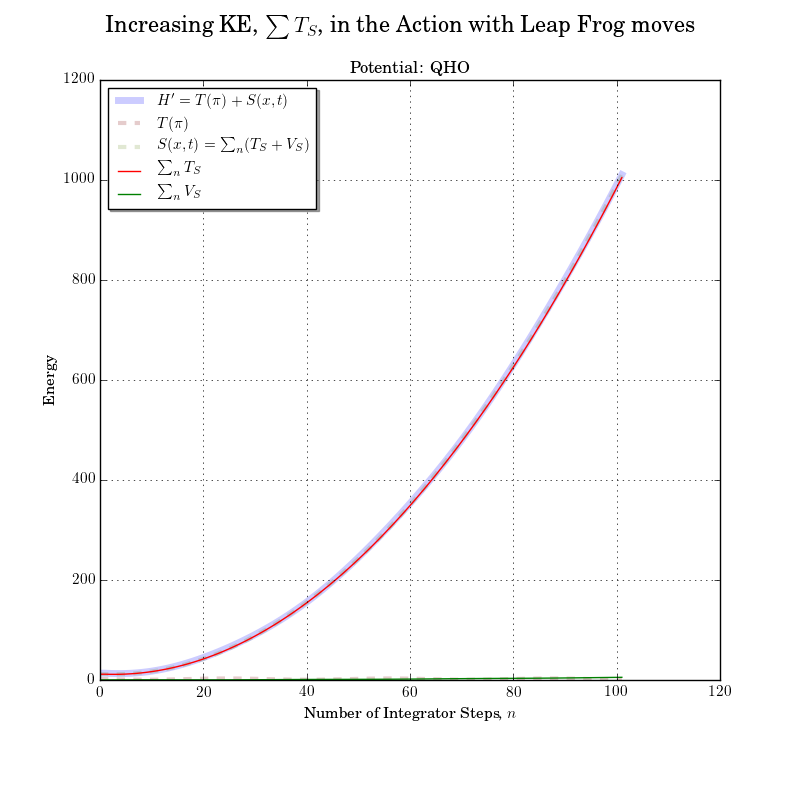
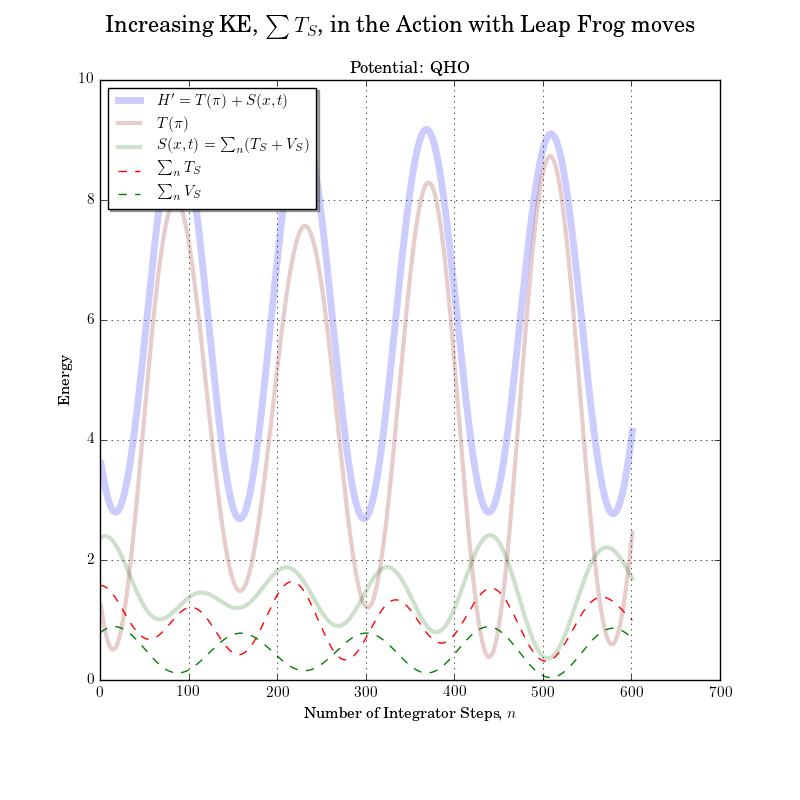
fixed lf lattice issues: issue #18

diff --git a/hmc/potentials.py b/hmc/potentials.py
@@ -127,25 +127,20 @@ class Klein_Gordon(object):
         x_sum = lattice.flatten().sum()
         
         p_sq_sum = np.array(0.)
-        # sum (integrate) across euclidean-space (i.e. all lattice sites)
-        for idx in np.ndindex(lattice.shape):
-            x = lattice[idx] # iterates single points of the lattice
-            
-            # x is a scalar
-            checks.tryAssertEqual(x.shape, (),
-                 ' x should be scalar.' + '\n> x: {}'.format(x))
-            
-            # gradient of kinetic term x \klein_gordon^2 x = 2 \klein_gordon^2 x
-            p_sq = positions.gradLaplacian(idx, a_power=1) 
-            
-            # gradient should be an array of the length of degrees of freedom 
-            checks.tryAssertEqual(p_sq.shape, (),
-                 ' laplacian shape should be scalar' \
-                 + '\n> p_sq shape: {}'.format(p_sq.shape))
-            
-            # sum across indices
-            p_sq_sum += p_sq
+        # # sum (integrate) across euclidean-space (i.e. all lattice sites)
+        # for idx in np.ndindex(lattice.shape):
         
+        # gradient of kinetic term x \klein_gordon^2 x = 2 \klein_gordon^2 x
+        p_sq = positions.laplacian(idx, a_power=1)
+        
+        # gradient should be an array of the length of degrees of freedom 
+        checks.tryAssertEqual(p_sq.shape, (),
+             ' laplacian shape should be scalar' \
+             + '\n> p_sq shape: {}'.format(p_sq.shape))
+        
+        # sum across indices
+        p_sq_sum += p_sq
+            
         # x.p_sq is a scalar
         checks.tryAssertEqual(p_sq_sum.shape, (),
              'p_sq * x should be scalar.' \
@@ -175,8 +170,8 @@ class Klein_Gordon(object):
         potential = u_0 + u_3 + u_4
             
         # multiply the potential by the lattice spacing as required
-        derivative = kinetic + positions.spacing * potential
-            
+        derivative = kinetic + (positions.spacing * potential)
+        # print 'kinetic, {}\npot: {}\n\n'.format(kinetic, potential)
         return derivative
     
     def hamiltonian(self, p, positions):
@@ -309,30 +304,23 @@ class Quantum_Harmonic_Oscillator(object):
         x_sum = lattice.flatten().sum()
         
         v_sq_sum = np.array(0.)
-        # sum (integrate) across euclidean-space (i.e. all lattice sites)
-        for idx in np.ndindex(lattice.shape):
+        # # sum (integrate) across euclidean-space (i.e. all lattice sites)
+        # for idx in np.ndindex(lattice.shape):
             
-            x = lattice[idx] # iterates single points of the lattice
-            
-            # x is a scalar
-            checks.tryAssertEqual(x.shape, (),
-                 ' x should be scalar.' + '\n> x: {}'.format(x))
-            
-            # derivative of velocity squared
-            # the derivative of the velocity squared is actually
-            # identical to - \klein_gordon^2
-            v_sq =  positions.gradLaplacian(idx, a_power=1)
-            v_sq *= -1
-            
-            # gradient should be an array of the length of degrees of freedom 
-            checks.tryAssertEqual(v_sq.shape, (),
-                 ' derivative^2 shape should be scalar' \
-                 + '\n> v_sq shape: {}'.format(v_sq.shape)
-                 )
-            
-            # sum to previous
-            v_sq_sum +=  v_sq
-            
+        # derivative of velocity squared
+        # the derivative of the velocity squared is actually
+        # identical to - \klein_gordon^2
+        v_sq =  positions.laplacian(idx, a_power=1)
+        
+        # gradient should be an array of the length of degrees of freedom 
+        checks.tryAssertEqual(v_sq.shape, (),
+             ' derivative^2 shape should be scalar' \
+             + '\n> v_sq shape: {}'.format(v_sq.shape)
+             )
+        
+        # sum to previous
+        v_sq_sum += v_sq
+        
         # gradient should be an array of the length of degrees of freedom 
         checks.tryAssertEqual(v_sq_sum.shape, (),
              ' derivative^2 shape should be scalar' \
@@ -340,7 +328,7 @@ class Quantum_Harmonic_Oscillator(object):
              )
         
         #### free action S_0: m/2 \phi(v^2 + m)\phi
-        kinetic = self.m * v_sq_sum
+        kinetic = - self.m * v_sq_sum
         u_0 = self.m * x_sum
         ### End free action
         
@@ -361,7 +349,7 @@ class Quantum_Harmonic_Oscillator(object):
         potential = u_0 + u_3 + u_4
             
         # multiply the potential by the lattice spacing as required
-        derivative = kinetic + positions.spacing * potential
+        derivative = kinetic + (positions.spacing * potential)
             
         return derivative
     

diff --git a/test/test_dynamics.py b/test/test_dynamics.py
@@ -367,7 +367,8 @@ class Lattice(Pretty_Plotter):
             ax[0].set_ylabel(r'Integrator Step Size, $\epsilon$')
             
             z = np.asarray(z).reshape(*x.shape)
-            p = ax[0].contourf(x, y, z, 500)
+            p = ax[0].contourf(x, y, z, 200,
+                norm=LogNorm(vmin=z.min(), vmax=z.max()))
             
             # add colorbar and label
             cbar = plt.colorbar(p, ax=ax[0], shrink=0.9)
@@ -407,15 +408,15 @@ class Lattice(Pretty_Plotter):
             h = ax[0].plot(steps, y1+np.asarray(action), label=r"$H' = T(\pi) + S(x,t)$",
                 color='blue', linewidth=5., alpha=0.2)
             kE = ax[0].plot(steps, np.asarray(y1), label=r'$T(\pi)$',
-                color='maroon', linewidth=3., linestyle='--', alpha=0.2)
+                color='darkred', linewidth=3., linestyle='-', alpha=0.2)
             uE = ax[0].plot(steps, np.asarray(action), label=r'$S(x,t) = \sum_{n} (T_S + V_S)$',
-                color='olivedrab', linewidth=3., linestyle='--', alpha=0.2)
+                color='darkgreen', linewidth=3., linestyle='-', alpha=0.2)
             uE = ax[0].plot(steps, np.asarray(k), label=r'$\sum_{n} T_S$',
-                color='r', linestyle='-')
+                color='red', linestyle='--')
             uE = ax[0].plot(steps, np.asarray(u), label=r'$\sum_{n} V_S$',
-                color='g', linestyle='-')
+                color='green', linestyle='--')
             ax[0].legend(loc='upper left', shadow=True, fontsize = self.axfont)
-            
+            # ax[0].set_yscale("log", nonposx='clip')
             if save:
                 save_dir = PLOT_LOC + 'plots/'
                 subprocess.call(['mkdir', PLOT_LOC + 'plots/'])
@@ -427,9 +428,9 @@ class Lattice(Pretty_Plotter):
         
         if save:
             if save == 'plot':
-                plot1d(save=False)
+                plot2d(save=False)
             else:
-                plot1d(save=save)
+                plot2d(save=save)
         
         return passed
     
@@ -561,9 +562,9 @@ if __name__ == '__main__':
     utils.newTest(TEST_ID_Lattice)
     dim         = 1
     n           = 10
-    spacing     = .1
-    step_size   = .1
-    n_steps     = 100
+    spacing     = 1.
+    step_size   = 0.01
+    n_steps     = 600
     
     # check that change in step_size time:
     # ~1/(lattice time length)
@@ -577,25 +578,25 @@ if __name__ == '__main__':
     x = np.random.random((n,)*dim)
     p0 = np.random.random((n,)*dim)
     
-    x0 = Periodic_Lattice(array=copy(x), spacing=spacing)
-    print 'QHO'
-    qho = Quantum_Harmonic_Oscillator()
-    integrator = Leap_Frog(duE = None,
-        n_steps = n_steps,
-        step_size = step_size,
-        lattice = True,
-        save_path=True)
-
-    tests = Lattice(dynamics = integrator, pot=qho)
-    tests.constantEnergy(p0 = copy(p0), x0 = copy(x0),
-        tol = 0.05,
-        step_sample = [n_steps],
-        step_sizes = [step_size],
-        # save = False,
-        # save='plot',
-        save = 'energy_cons_QHO_pot_bug.png',
-        print_out = True # shows a small print out
-        )
+    # x0 = Periodic_Lattice(array=copy(x), spacing=spacing)
+    # print 'QHO'
+    # qho = Quantum_Harmonic_Oscillator()
+    # integrator = Leap_Frog(duE = None,
+    #     n_steps = n_steps,
+    #     step_size = step_size,
+    #     lattice = True,
+    #     save_path=True)
+    #
+    # tests = Lattice(dynamics = integrator, pot=qho)
+    # tests.constantEnergy(p0 = copy(p0), x0 = copy(x0),
+    #     tol = 0.05,
+    #     step_sample = [n_steps],
+    #     step_sizes = [step_size],
+    #     # save = False,
+    #     # save='plot',
+    #     save = 'energy_cons_QHO_pot_bug.png',
+    #     print_out = True # shows a small print out
+    #     )
     
     print 'KG'
     x0 = Periodic_Lattice(array=copy(x), spacing=spacing)
@@ -609,11 +610,13 @@ if __name__ == '__main__':
     tests = Lattice(dynamics = integrator, pot=qho)
     tests.constantEnergy(p0 = copy(p0), x0 = copy(x0),
         tol = 0.05,
-        step_sample = [n_steps],
-        step_sizes = [step_size],
+        # step_sample = [n_steps],
+        # step_sizes = [step_size],
+        step_sample = np.linspace(1, 1000, 10, True, dtype=int),
+        step_sizes = np.linspace(0.01, 0.1, 10, True),
         # save = False,
         # save='plot',
-        save = 'energy_cons_KG_pot_bug.png',
+        save = 'energy_conservation_lattice_KG.png',
         print_out = True # shows a small print out
         )
     # tests.reversibility(p0 = copy(p), x0 = copy(x),

diff --git a/hmc/lattice.py b/hmc/lattice.py
@@ -63,32 +63,6 @@ class Periodic_Lattice(object):
         
         return lap
     
-    def gradLaplacian(self, position, a_power=0):
-        """gradient of the lattice Laplacian for a point 
-            with a periodic boundary
-        
-        Required Inputs
-            position :: (integer,) :: determines the position of the array
-        
-        Optional Inputs
-            a_power  :: integer :: divide by (lattice spacing)^a_power
-        
-        Expectations
-            position is a tuple that gives current point in the n-dim lattice
-        """
-        
-        # check that the tuple recieved is the same length as the 
-        # shape of the target array: Should do gradient over all dims
-        # gradient should be an array of the length of degrees of freedom 
-        checks.tryAssertEqual(len(position), self.d,
-             "mismatch of indices...\nshape received: {}\nshape expected: {}".format(
-             position, self.get.shape)
-             )
-        
-        lap = self.laplacian(position, a_power=a_power)
-        
-        return lap
-    
     def gradSquared(self, position, a_power=0, symmetric=False):
         """lattice gradient^2 for a point with a periodic boundary
         

diff --git a/hmc/dynamics.py b/hmc/dynamics.py
@@ -45,9 +45,11 @@ class Leap_Frog(object):
         # print "     ... begin integration"
         for step in xrange(0, self.n_steps):
             # print "         > step: {}".format(step)
+            # b = copy(self.x.get)
             self._moveP(frac_step=0.5)
             self._moveX()
             self._moveP(frac_step=0.5)
+            # print self.p - b
             # print self.p
             # print self.x.get
             if self.save_path: self._storeSteps() # store moves
@@ -119,7 +121,7 @@ class Leap_Frog(object):
         update them in turn using a numpy array iteration
         
         The separation between lattice and non-lattice theory is due to the
-        potentials used. The SHO and Multivariate Gaussian derviates do not accept
+        potentials used. The SHO and Multivariate Gaussian derivatives do not accept
         position indices for gradient terms and have an analytical derivative term.
         
         This needs to be corrected.
